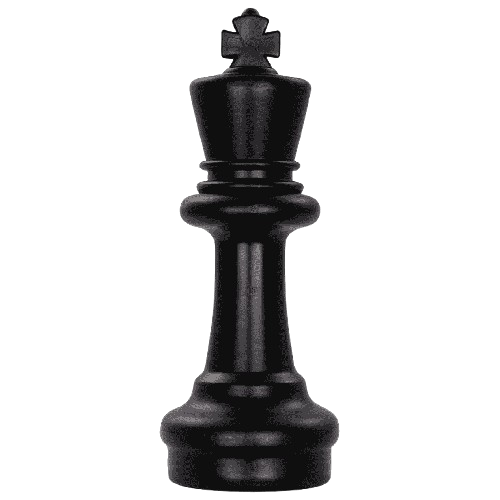
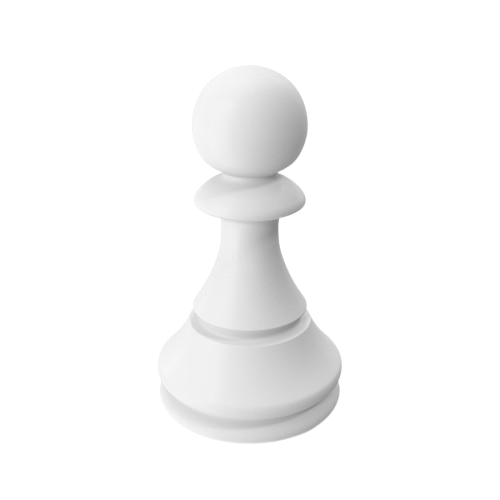
Added Chess and Tennis event recognision

Changed region(s): [[0.3, 0.0, 0.69, 0.99]]

diff --git a/FrontendCode/events.js b/FrontendCode/events.js
@@ -39,7 +39,10 @@ const EVENT_SOURCES = [
     { type: 'cycle_event', collectionPath: 'scraped_events/cycle_event/hclcyclothon', sourceName: 'HCL Cyclothon' },
     { type: 'run_event', collectionPath: 'scraped_events/run_event/champendurance', sourceName: 'Champ Endurance' },
     { type: 'sports_event', collectionPath: 'scraped_events/sports_event/bookmyshow', sourceName: 'BookMyShow' },
-    { type: 'tabletennis_event', collectionPath: 'scraped_events/tabletennis_event/ttfi', sourceName: 'TTFI' }
+    { type: 'tabletennis_event', collectionPath: 'scraped_events/tabletennis_event/ttfi', sourceName: 'TTFI' },
+    { type: 'chess_event', collectionPath: 'scraped_events/chess_event/aicf', sourceName: 'AICF' },
+    { type: 'chess_event', collectionPath: 'scraped_events/chess_event/events', sourceName: 'AICF' },
+    { type: 'tennis_event', collectionPath: 'scraped_events/tennis_event/tenniskhelo', sourceName: 'TennisKhelo' }
 ];  
 
 const ICONS = {
@@ -283,6 +286,7 @@ function normalizeEventData(data, sourceConfig, docId) {
         else if (sourceConfig.type === 'run_event') title = "Running Event";
         else if (sourceConfig.type === 'tabletennis_event') title = "Table Tennis Event";
         else if (sourceConfig.type === 'chess_event') title = "Chess Event";
+        else if (sourceConfig.type === 'tennis_event') title = "Tennis Event";
         else title = "Sports Event";
     }
 
@@ -303,7 +307,9 @@ function normalizeEventData(data, sourceConfig, docId) {
         displayType = "Table Tennis";
     } else if (sourceConfig.type === 'chess_event') {
         displayType = "Chess";
-    }
+    } else if (sourceConfig.type === 'tennis_event') {
+        displayType = "Tennis";
+    } 
 
 
     const organizerName = sourceConfig.type === 'organizer' ? (data.organizerName || 'Local Organizer') : sourceConfig.sourceName;
@@ -428,6 +434,10 @@ function createCardHTML(event, index) {
     else if (event.type === 'chess_event') {
         slideImage = 'Assets/chess.png';
         iconSvg = ICONS.default; 
+    } 
+    else if (event.type === 'tennis_event') {
+        slideImage = 'Assets/tennis.png';
+        iconSvg = ICONS.default;
     }
 
     const viewString = event.views > 1000 ? (event.views / 1000).toFixed(1) + 'k' : event.views;
